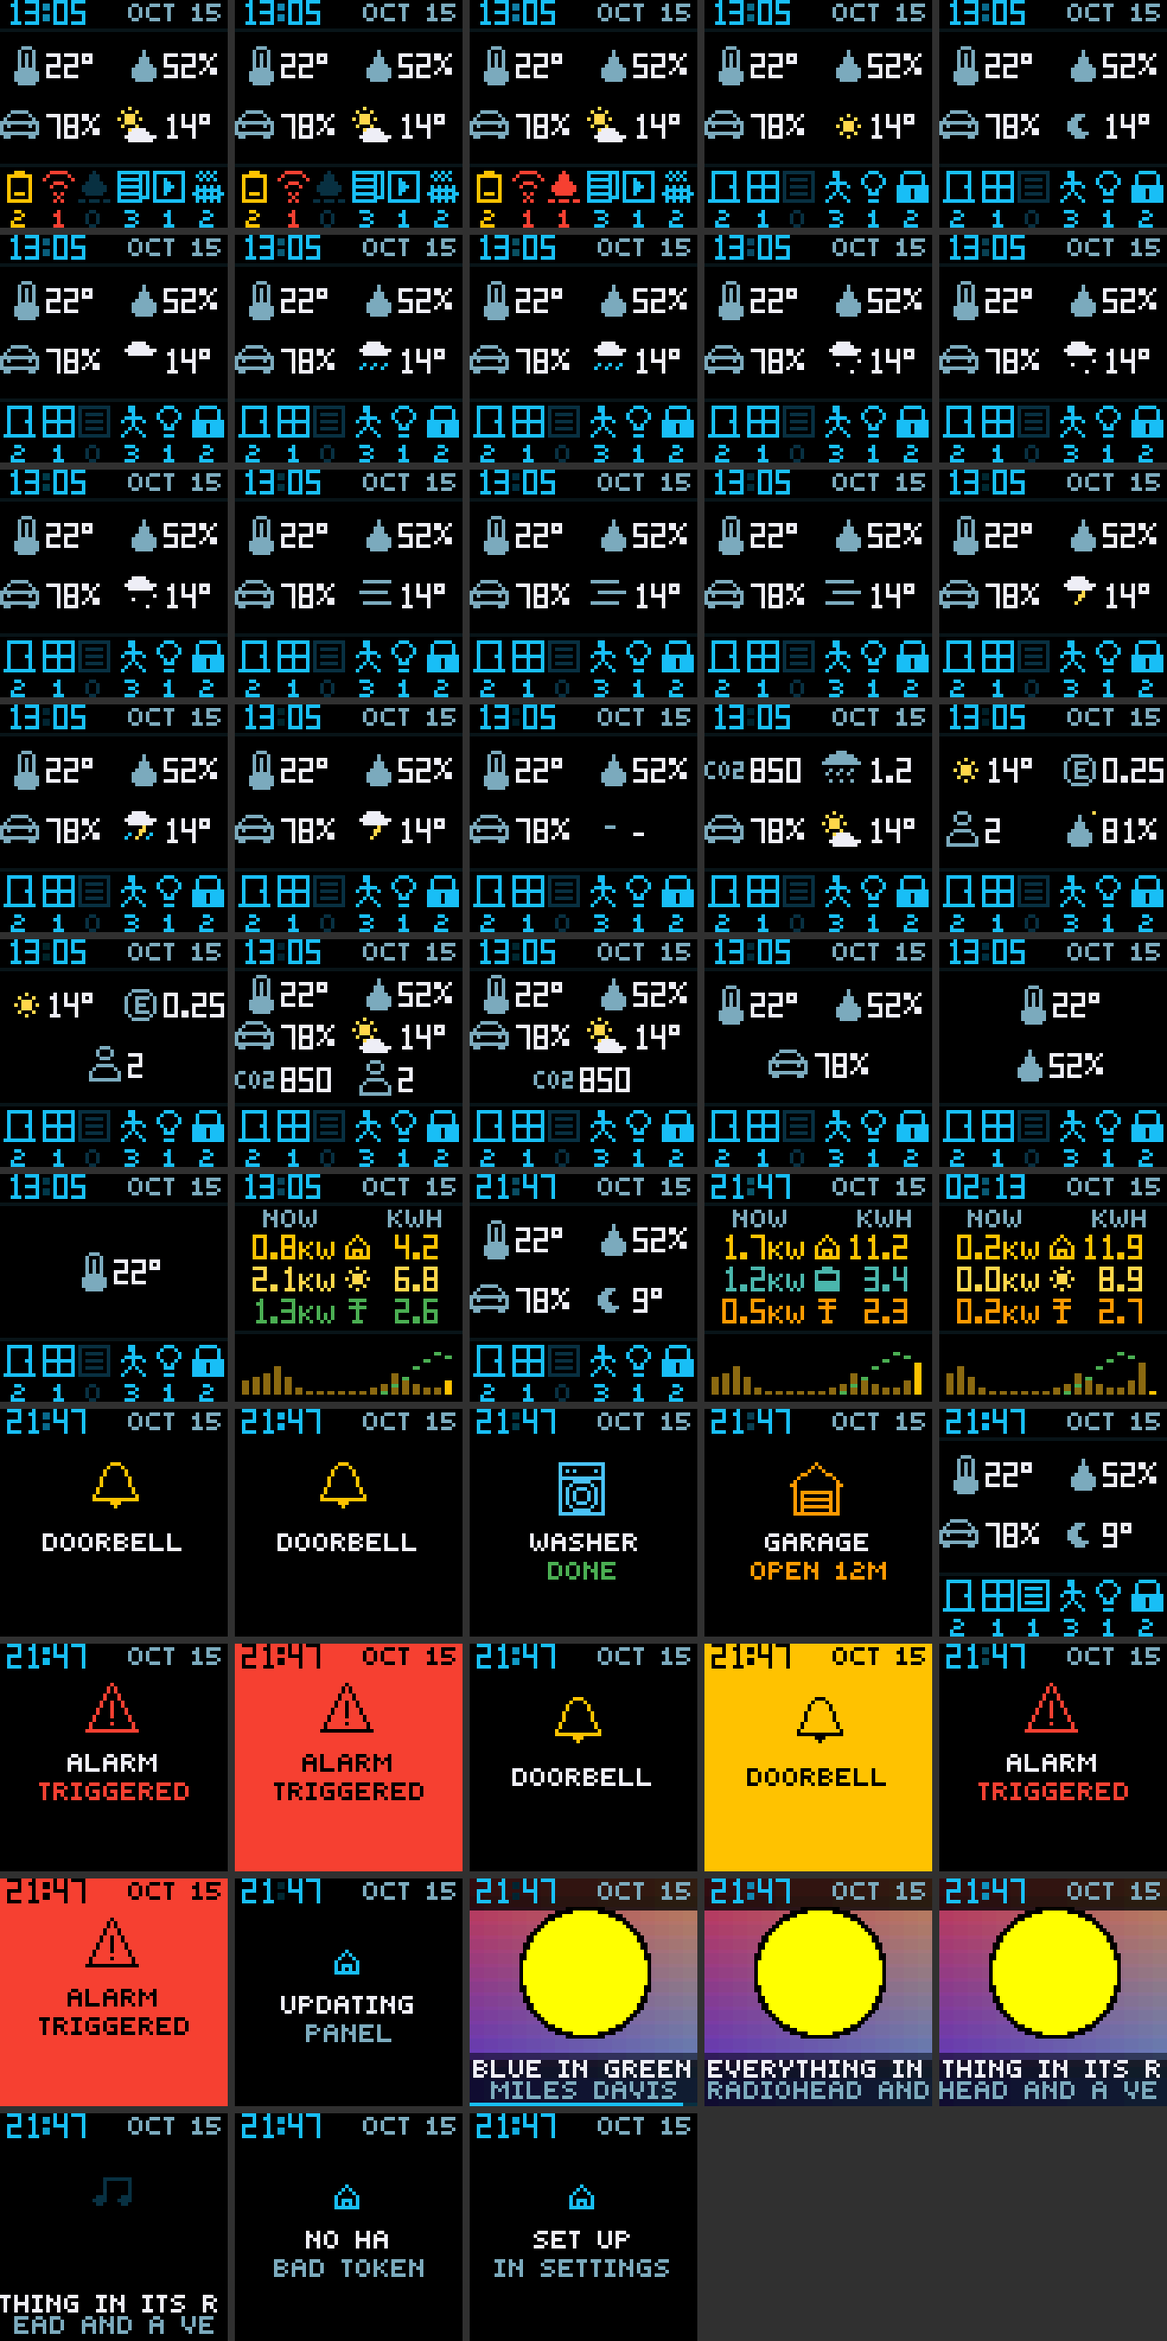
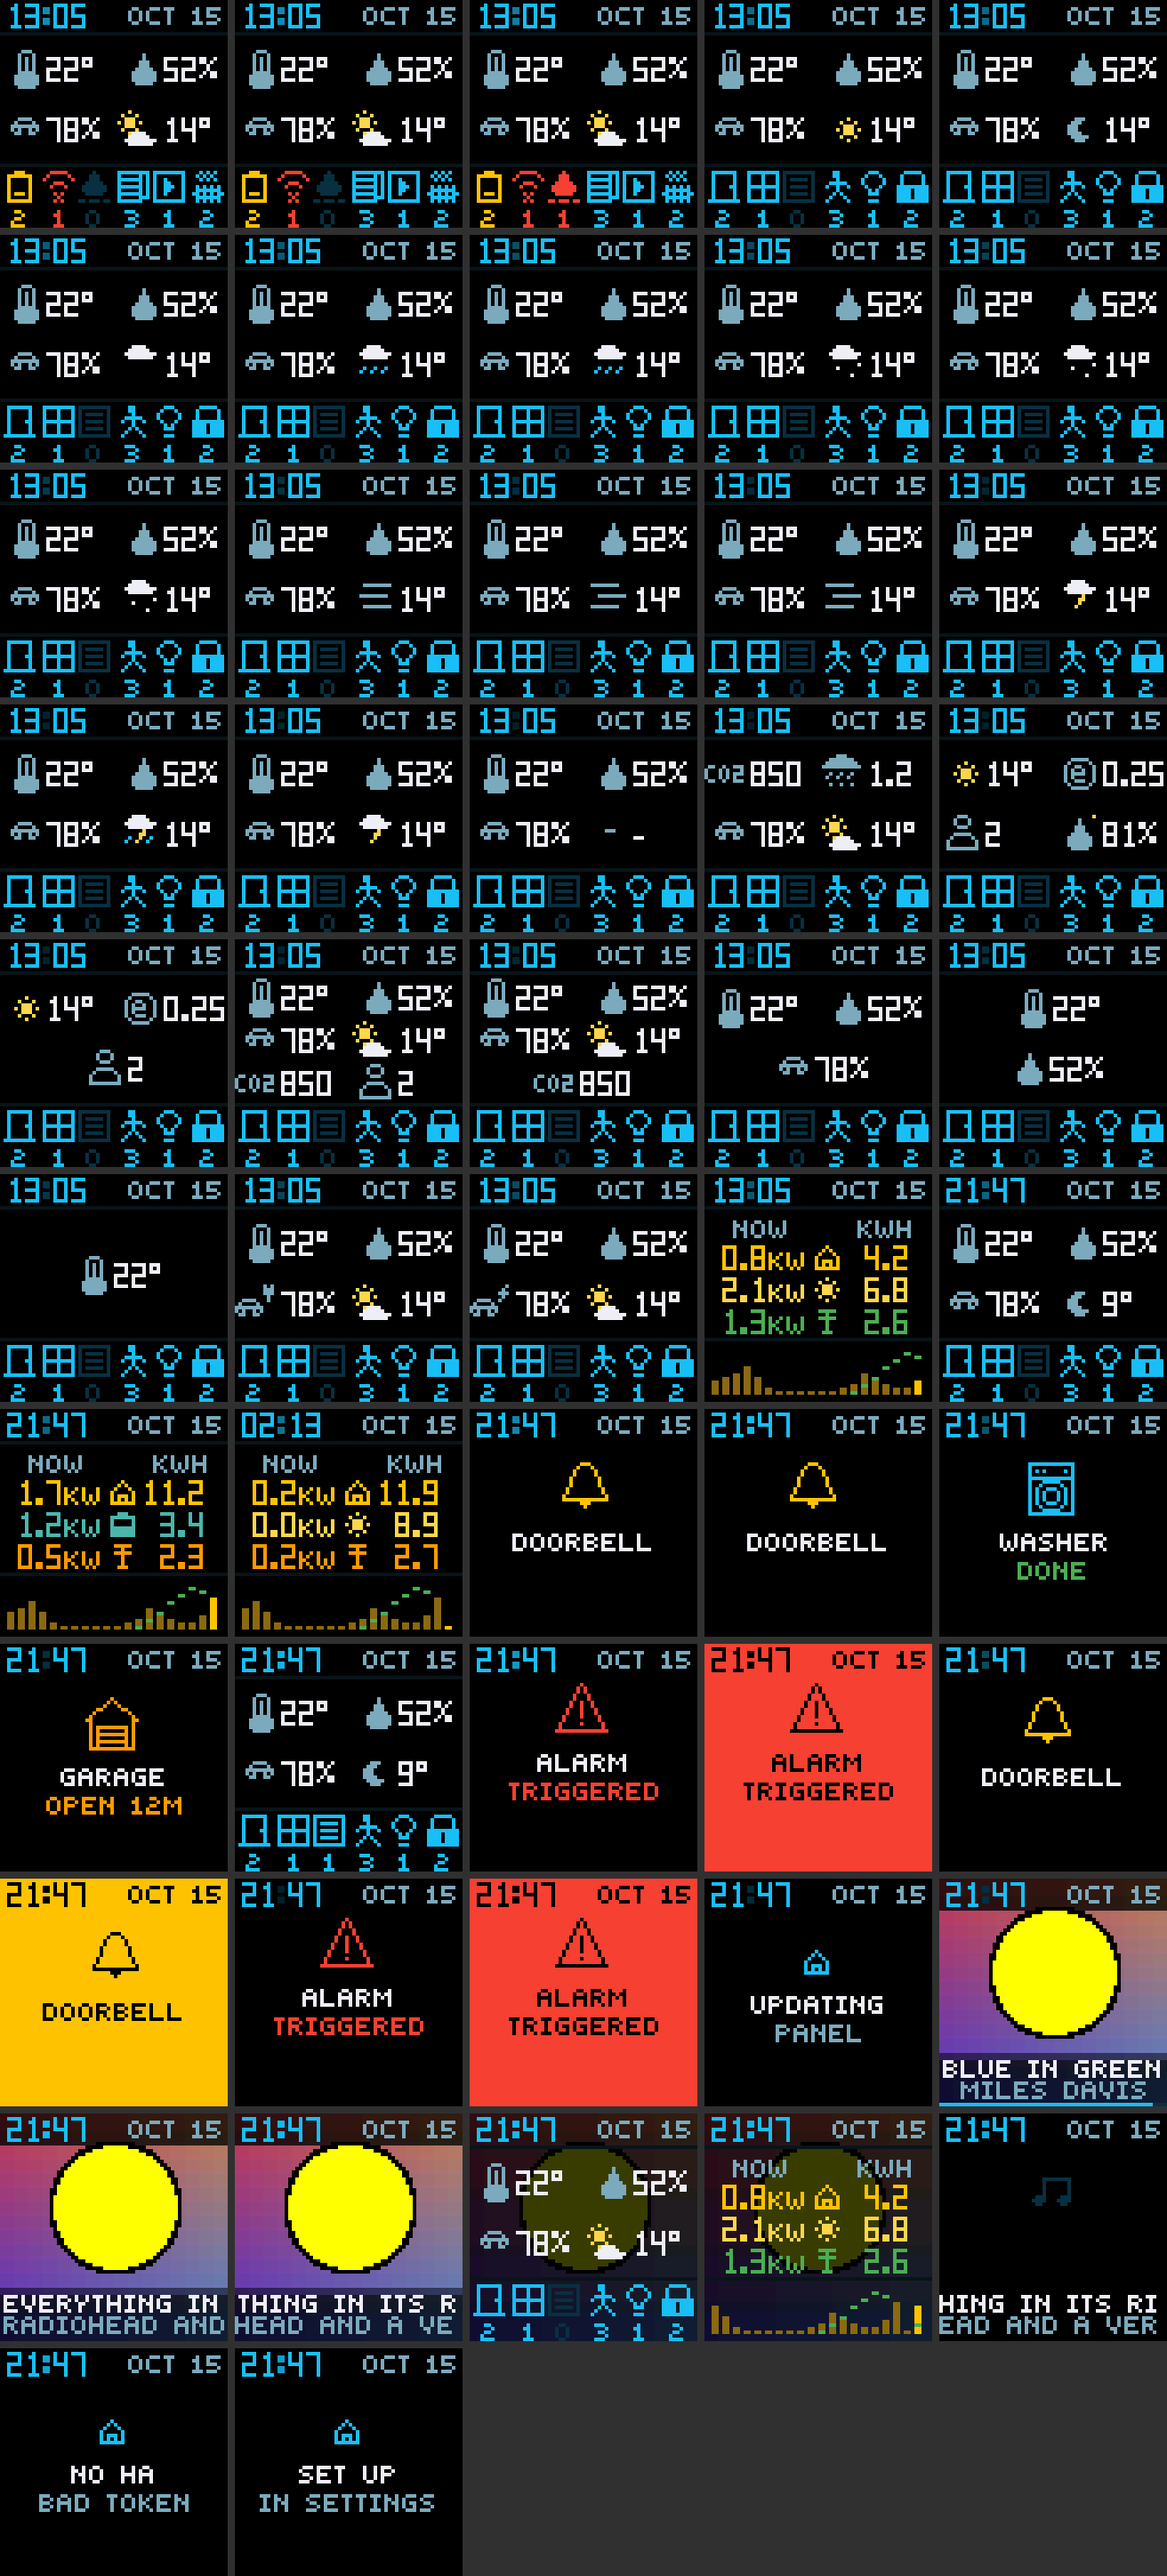
CHORE: Update the README, architecture notes and Home previews for the EV tile, detection and album art backdrop
The README now describes detecting entities by leaving a field empty, the EV tile with its charging and plugged-in states, up to six tiles, the optional dimmed album art behind every page, and how automatic brightness decides the night clock. The Home preview images show the new car icons, the lower energy rows and the album art backdrop. The preview tool builds again.

diff --git a/firmware/tools/preview/home.cpp b/firmware/tools/preview/home.cpp
@@ -44,6 +44,7 @@ static uint32_t gMediaVersion = 1;
 namespace ha { namespace media {
 uint32_t version() { return gMediaVersion; }
 bool snapshot(Snapshot &out) { out = gMedia; return true; }
+void release() {}
 ArtState art(const char *, const uint16_t **pixels, uint16_t *id) { if (!gArtReady) return ART_LOADING; *pixels = gArt; *id = 1; return ART_READY; }
 } }
 HaClient &HaClient::instance() { static HaClient client; return client; }
@@ -223,6 +224,9 @@ int main(int argc, char **argv) {
   gConfig.tiles[2].type = ha::TILE_NONE; step(50); capture("Two tiles");
   gConfig.tiles[1].type = ha::TILE_NONE; step(50); capture("One tile");
   gConfig = savedConfig; ha::extraTile(3) = savedFourth; ha::extraTile(4).type = ha::TILE_NONE; ha::extraTile(5).type = ha::TILE_NONE; feed(s); step(50);
+  ha::Snapshot car = s; car.tile[2] = 1078; feed(car); step(50); capture("EV plugged in");  // charge + 1000 plugged in, + 2000 charging
+  car.tile[2] = 2078; feed(car); step(50); capture("EV charging");
+  feed(s); step(50);
   gConfig.pages = ha::PAGE_ENERGY; step(50);
   capture("Energy, solar producing and exporting");
 
@@ -320,6 +324,12 @@ int main(int argc, char **argv) {
   capture("Now playing: long text, scrolling");
   virtualMs += 3000; step(50);
   capture("Now playing: Kitchen, later in the scroll");
+  gArtReady = true; gMedia.count = 1; gMediaVersion++;
+  gConfig.pages = ha::PAGE_HOME | ha::PAGE_ART_BACKDROP; step(50); step(50);
+  capture("Album art, dimmed, behind the home page");
+  gConfig.pages = ha::PAGE_ENERGY | ha::PAGE_ART_BACKDROP; step(50); step(50);
+  capture("Album art, dimmed, behind the energy page");
+  gConfig.pages = ha::PAGE_MEDIA; step(50);
   gArtReady = false; gMedia.count = 1; gMediaVersion++; step(50); step(50);
   capture("Now playing: album art loading");
 

diff --git a/firmware/tools/preview/faces.py b/firmware/tools/preview/faces.py
@@ -28,7 +28,7 @@ def render(face, work, extra):
         command += ["-I", str(include)]
     if face == "home":  # its own runner: made-up Home Assistant values instead of the clock scenarios
         command += ["-I", str(FIRMWARE / "lib/ha-feed")]
-        command += [str(HERE / "home.cpp"), str(gfx / "Adafruit_GFX.cpp"), str(FIRMWARE / "lib/ha-feed/HaDefaults.cpp")]
+        command += [str(HERE / "home.cpp"), str(gfx / "Adafruit_GFX.cpp"), str(FIRMWARE / "lib/ha-feed/HaDefaults.cpp"), str(FIRMWARE / "lib/ha-feed/HaDevices.cpp")]
     else:
         command += [str(HERE / "faces.cpp"), str(gfx / "Adafruit_GFX.cpp")]
     command += [str(path) for path in sorted(folder.glob("*.cpp"))]

diff --git a/README.md b/README.md
@@ -35,13 +35,13 @@ The `home` face needs Home Assistant on the same network (or reachable from it).
 
 1. In Home Assistant open your profile, Security, and create a long-lived access token.
 2. Switch the clock to the Home face (settings page, Clock face), open its settings page and fill in the Home Assistant card: address (for example `homeassistant.local:8123`) and the token. The clock keeps the token and never shows it again.
-3. Choose the pages (the Energy page comes first; it is left out until you enter its entities) and what each tile and icon shows. Every slot is either Auto (all door sensors, all lights, the average temperature and so on) or one entity or group that you enter. The energy rows use the entity IDs of your power and energy sensors.
+3. Choose the pages (the Energy page comes first; it is left out until you enter its entities) and what each tile and icon shows. Every slot detects its entities by itself while its entity field is empty (all door sensors, all lights, the average temperature and so on, shown as grey tags; the refresh button detects again). Remove a grey tag, or type an entity or group, to use your own list instead. The energy rows use the entity IDs of your power and energy sensors.
 
-The Home page has four configurable tiles in a 2×2 layout: top left, top right, bottom left and bottom right. Each can show temperature, humidity, people home, power, a custom number, CO₂, rain, EV charge, energy price, outdoor humidity, weather, or nothing. Defaults are indoor temperature, indoor humidity, EV charge and weather. EV charge needs your vehicle’s battery-percentage sensor; CO₂ and rain also need a sensor; energy price on Auto uses the Energy dashboard’s grid tariff. CO₂ is shown in ppm; rain and price use the sensor’s numeric value without conversion or a unit suffix.
+The Home page has up to six configurable tiles, spread evenly over the panel. Each can show temperature, humidity, people home, power, a custom number, CO₂, rain, EV charge, energy price, outdoor humidity, weather, or nothing. Defaults are indoor temperature, indoor humidity, EV charge and weather. EV charge is one tile with three entities, all detected when left empty: the charge (battery percentage), whether the car is charging and whether it is plugged in. The car icon is the same green in every state and gets a bolt while charging and a plug while plugged in; CO₂ and rain also need a sensor; energy price, when empty, uses the Energy dashboard’s grid tariff. CO₂ is shown in ppm; rain and price use the sensor’s numeric value without conversion or a unit suffix.
 
-Weather follows the current condition and temperature of a `weather.*` entity. Auto selects the first available weather entity; Outdoor humidity Auto reads its humidity. Turn Auto off to choose a specific weather entity or outdoor humidity sensor. Counts appear below the state icons, and the clock colon gently breathes over three seconds. Both data pages use a plain black background. The default bottom bar shows low batteries, offline devices, water leaks, open blinds, playing media and active heating; each slot remains configurable. Low batteries includes percentage sensors at 20% or less and low-battery binary sensors, deduplicated by device. Offline counts devices with unavailable entities; entities without an assigned device count separately. Blinds includes blinds, curtains, shades and shutters that are not closed. Heating counts climate entities whose current action is heating. Choose an entity or group instead of Auto to limit a count. For Lights, Auto counts individual lights; with Auto off, selected lights that are on are counted once per Home Assistant area. Lights without an area are excluded from this room count. Occupied rooms counts distinct Home Assistant areas with active motion, occupancy or presence sensors; assign sensors to areas to include them. Washer-done popups have their own Washer running field under Alerts and work without a visible washer icon. Existing fourth-slot washer settings move there automatically.
+Weather follows the current condition and temperature of a `weather.*` entity. When empty, the first available weather entity is used, and Outdoor humidity reads its humidity. Choose an entity to use a specific weather entity or outdoor humidity sensor. Counts appear below the state icons, and the clock colon gently breathes over three seconds. Both data pages use a plain black background. The default bottom bar shows low batteries, offline devices, water leaks, open blinds, playing media and active heating; each slot remains configurable. Low batteries includes percentage sensors at 20% or less and low-battery binary sensors, deduplicated by device. Offline counts devices with unavailable entities; entities without an assigned device count separately. Blinds includes blinds, curtains, shades and shutters that are not closed. Heating counts climate entities whose current action is heating. Choose an entity or group instead of the detected ones to limit a count. For Lights, the detected lights count individually; with your own selection, lights that are on are counted once per Home Assistant area. Lights without an area are excluded from this room count. Occupied rooms counts distinct Home Assistant areas with active motion, occupancy or presence sensors; assign sensors to areas to include them. Washer-done popups have their own Washer running field under Alerts and work without a visible washer icon. Existing fourth-slot washer settings move there automatically.
 
-The optional Now playing page shows the title and artist over a full-panel album cover for the first of the media players you pick (up to four, with suggestions as you type) that is playing. It only appears in the rotation while one is playing, and long titles scroll. The cover comes from the player's picture through Home Assistant (JPEG only; other pictures, or none, show a music note), so it needs the same access token. It is shown only when the picture is on Home Assistant itself.
+The optional Now playing page shows the title and artist over a full-panel album cover for the first of the media players you pick (up to four, with suggestions as you type) that is playing. It only appears in the rotation while one is playing, and long titles scroll. The cover comes from the player's picture through Home Assistant (JPEG only; other pictures, or none, show a music note), so it needs the same access token. It is shown only when the picture is on Home Assistant itself. An option, off by default, also shows that cover dimmed to a quarter of its brightness behind every other page while something plays; it stays still while pages slide.
 
 Entity fields suggest matching entities from Home Assistant as you type. "Fill from Home Assistant" on the Energy page reads the sensors of Home Assistant's own Energy dashboard (grid, solar and battery meters, and power sensors where they exist) into the empty fields; anything you typed stays. Meters that count for ever are fine for the kWh columns: the clock shows their change since midnight, taken from Home Assistant's statistics. For the grid and solar meters it takes the first sensor listed (the import side, and the first tariff).
 
@@ -130,9 +130,9 @@ The page and its assets are stored in firmware flash. A new setting only appears
 
 ### Brightness and night display
 
-Brightness can be fixed or follow a light sensor. With automatic brightness enabled, use the live sensor reading to set the dark and bright limits. Readings are averaged, and small changes are ignored to reduce flicker.
+Brightness can be fixed or follow a light sensor. With automatic brightness enabled, only the sensor decides the night clock (the night hours and sunset are ignored); use the live sensor reading to set the dark and bright limits. Readings are averaged, and small changes are ignored to reduce flicker.
 
-Most faces can switch to a dim numeric clock during chosen hours, from sunset to sunrise, or when the sensor detects a dark room. It is dark red by default. Pac-Man uses the border colour for its night clock.
+Most faces can switch to a dim numeric clock during chosen hours, from sunset to sunrise, or when the sensor detects a dark room (with automatic brightness on, only the sensor counts). It is dark red by default. Pac-Man uses the border colour for its night clock.
 
 Mario and Luigi scenes follow sunrise and sunset rather than the night schedule. A dark room can switch them to the dim numeric clock.
 

diff --git a/.claude/filemap.md b/.claude/filemap.md
@@ -28,7 +28,7 @@ ESP32 HUB75 LED-matrix clock firmware (ESP-IDF + Arduino component), 8 clock fac
 - pacman/: self-playing maze clock; Maze.h generates/stores the maze; palette in lib/core/PacmanColors.h
 - word/: word clock; WordFont draws glyphs, WordLanguages defines language layouts
 - tetris/: falling-digit clock; TetrisRenderer draws, TetrisScreens controls timing/frame state
-- home/: Home Assistant face; Clockface.cpp fills a Frame (pages, alerts, hourly bars) from HaClient, HomeRenderer.cpp draws the configurable tiles (including weather) and the Now playing page, configurable status counts, plain background and breathing colon (shared with the native preview)
+- home/: Home Assistant face; Clockface.cpp fills a Frame (pages, alerts, hourly bars) from HaClient, HomeRenderer.cpp draws the configurable tiles (including weather and the EV car with its bolt/plug badge), the dimmed album-art backdrop and the Now playing page, configurable status counts, plain background and breathing colon (shared with the native preview)
 - f1/: shared F1/MotoGP face; F1Renderer draws, F1Screens controls pages/timing, LoadingTyre.h holds the loading tyre bitmap
 - football/: sports face; FootballRenderer draws, FootballScreens controls pages/timing (feed: lib/football-feed)
 - MotoGP has no separate clockface directory: reuses f1/ with UM_MOTOGP and lib/motogp-feed

diff --git a/docs/ARCHITECTURE.md b/docs/ARCHITECTURE.md
@@ -32,7 +32,12 @@ are ready. A successful build does not establish hardware or live-feed reliabili
   configured entities and parses Home Assistant's responses (including `energy/get_prefs` for Auto mode and
   `recorder/statistics_during_period` for the hourly history). `clockfaces/home/Clockface.cpp` fills a fixed-size
   `Frame` from the latest snapshot, deriving house usage from grid/solar/battery when no direct sensor is set;
-  `HomeRenderer` paints it, same change-detection pattern as Football and F1.
+  `HomeRenderer` paints it, same change-detection pattern as Football and F1. A tile or icon with an empty entity
+  field is an Auto slot: Home Assistant's own device classes pick its entities (the settings page shows what they
+  are as grey tags, from `/api/ha/suggest`). The EV tile stores three entities (`charge,charging,plugged`, `-` for
+  one left to detection, `off` for one not used) and returns one number, the charge plus 1000 when plugged in and
+  2000 when charging, so the settings layout did not change. The album-art backdrop is bit 16 of the saved page
+  flags; it is not a page.
 - Time, feed reading, JSON parsing, layout, digit assets, and cache mount policy
   live in shared core modules.
 - Download readers stop at 512 KiB. Football scoreboards retain at most 32 games
